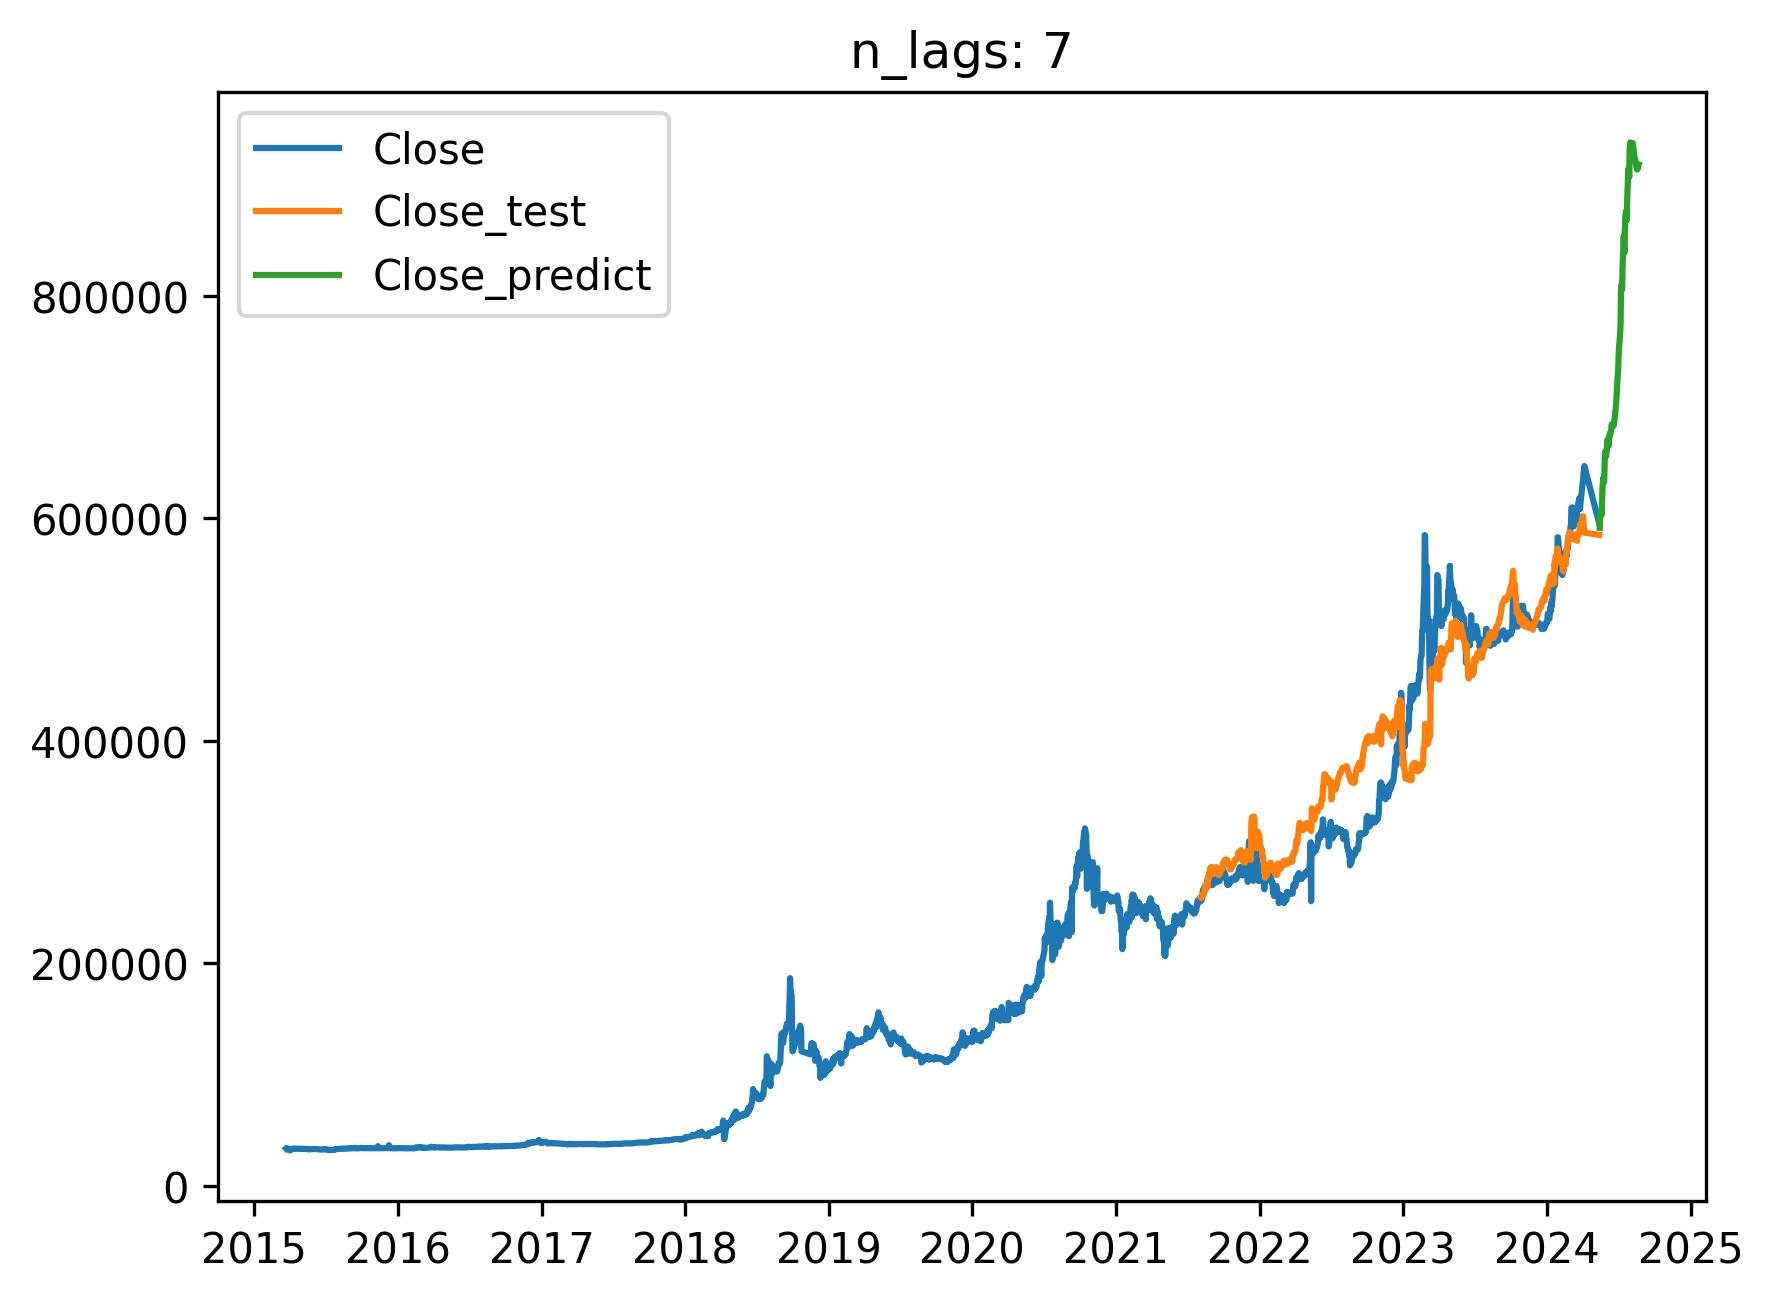
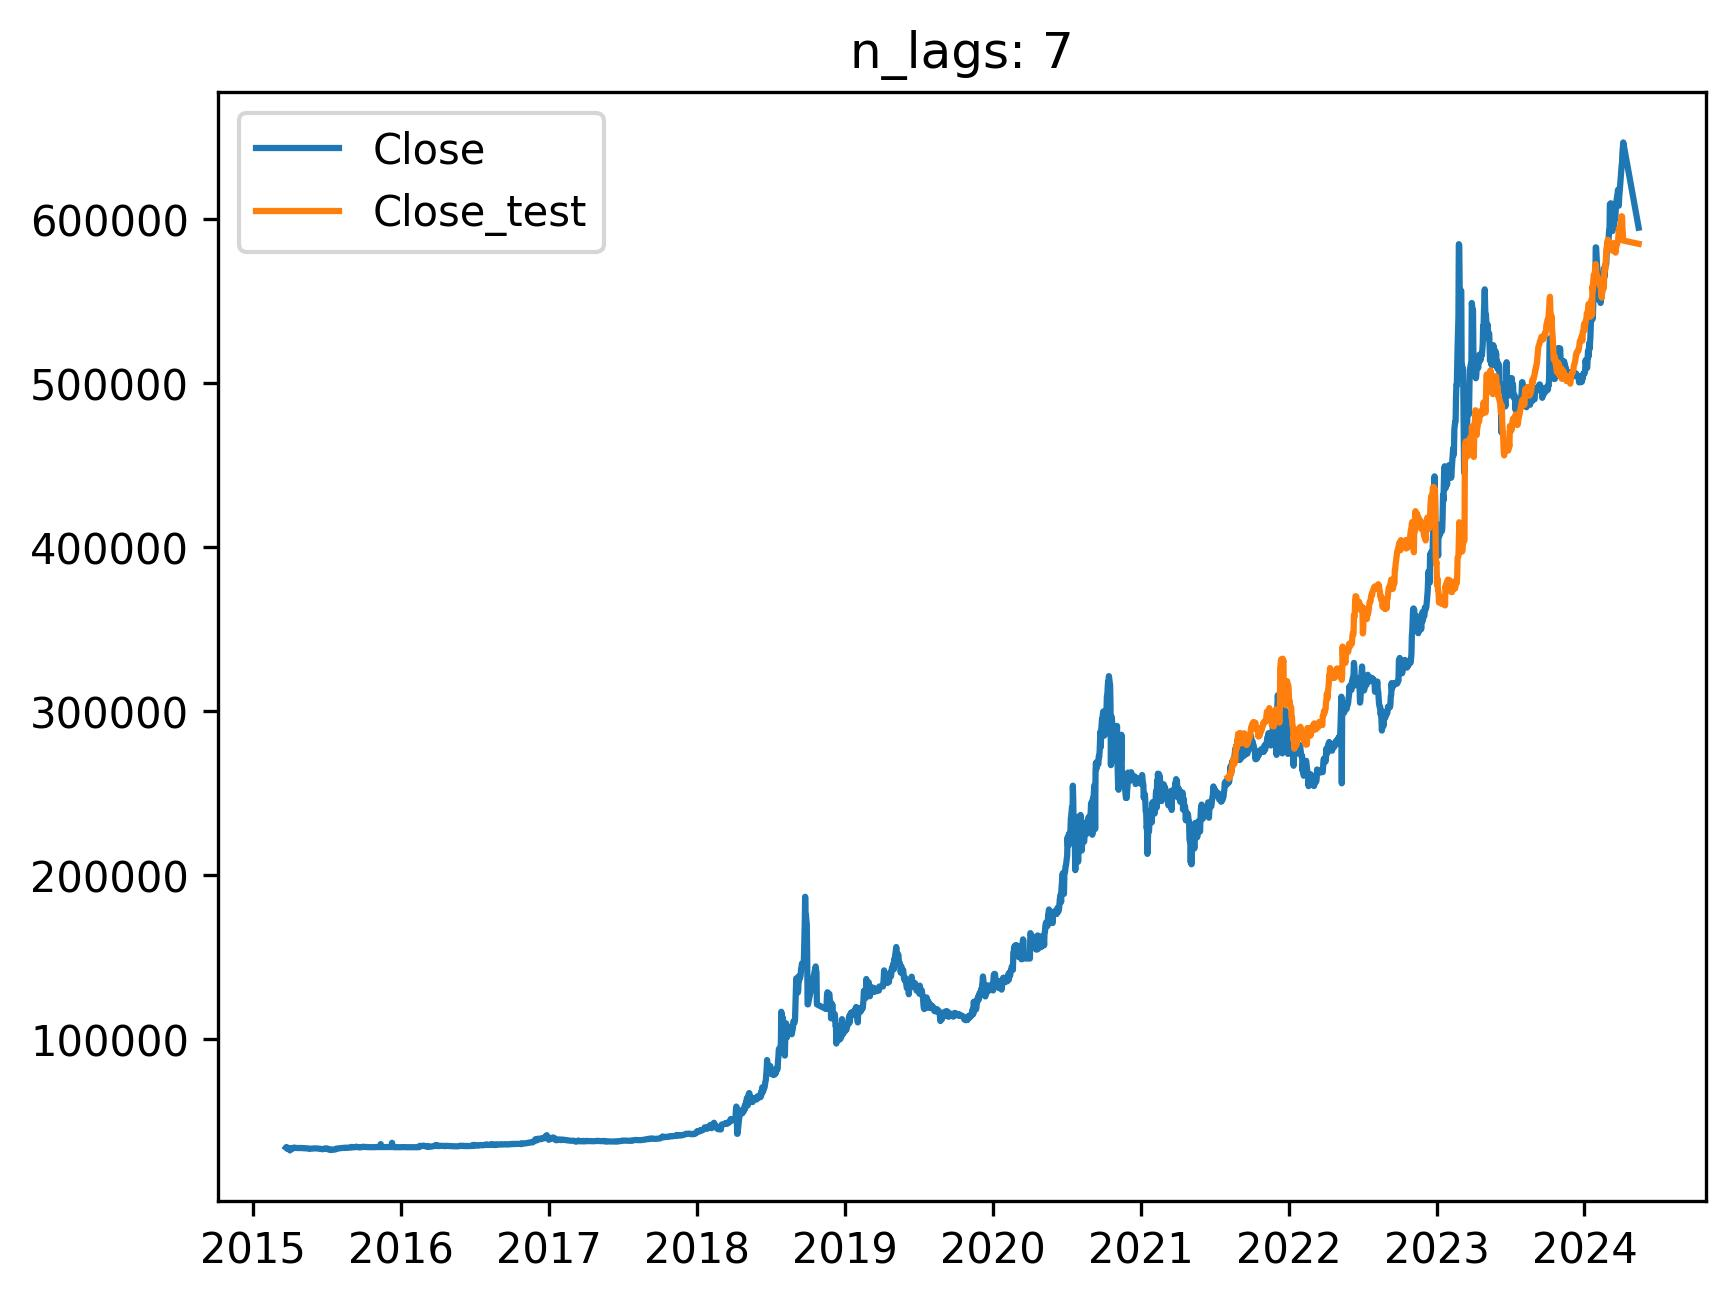
complete with plot 2

diff --git a/prediction_with_lag/main.py b/prediction_with_lag/main.py
@@ -99,6 +99,6 @@ output, error, first_df, test_df_plot, output_plot, df_plot = predict_n_days(dat
 print(error)
 # print(df_plot.to_string())
 
-plot(df_plot, col_to_plot=['Close', 'Close_test', 'Close_predict'], n_lags=7)
+plot(df_plot, col_to_plot=['Close', 'Close_test'], n_lags=7)
 
 # output.to_excel('output/dollar.xlsx')
